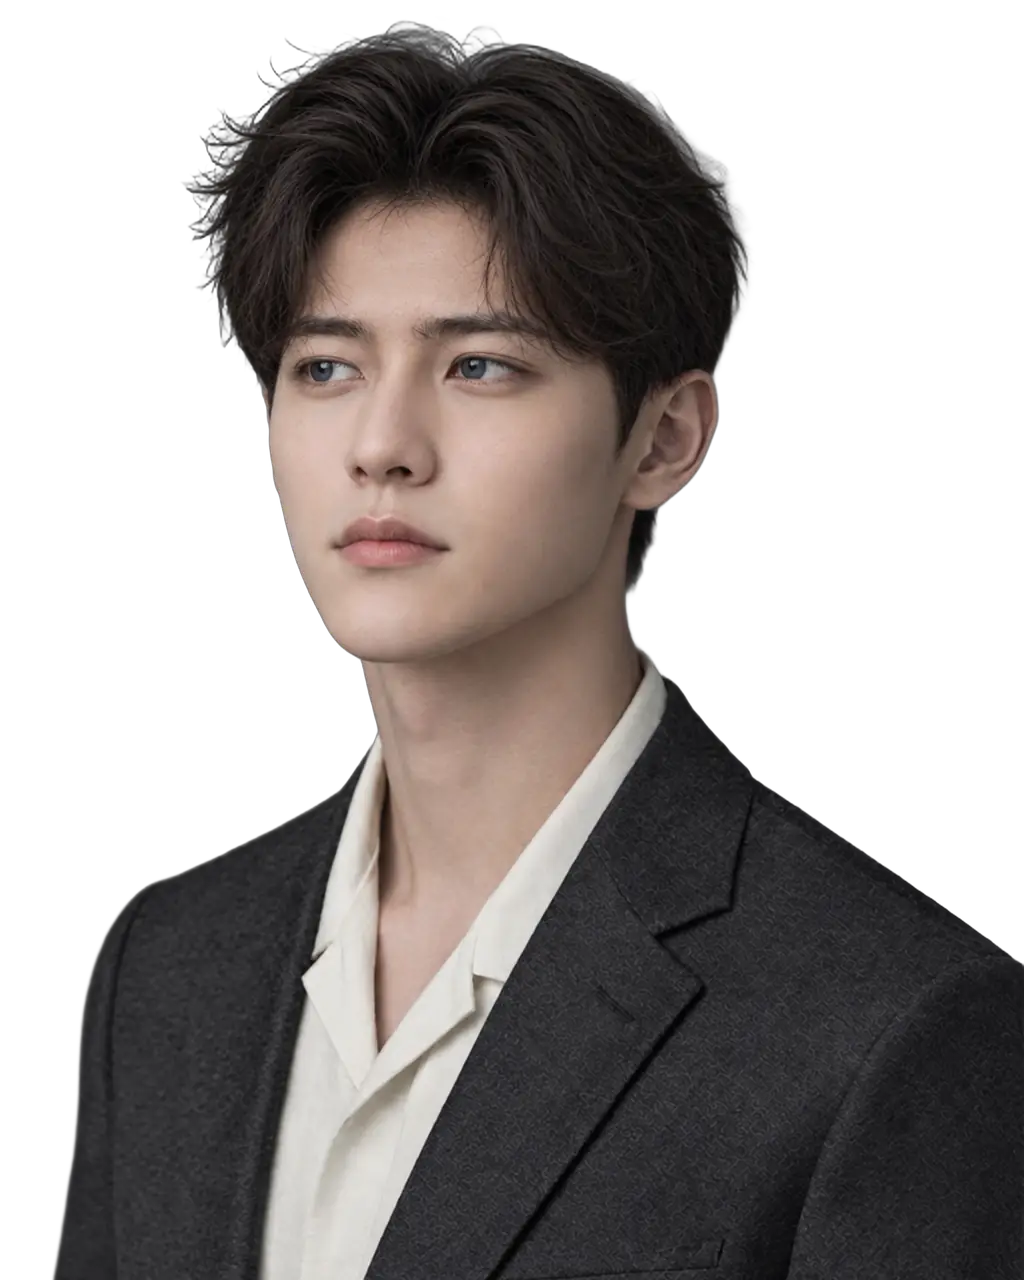
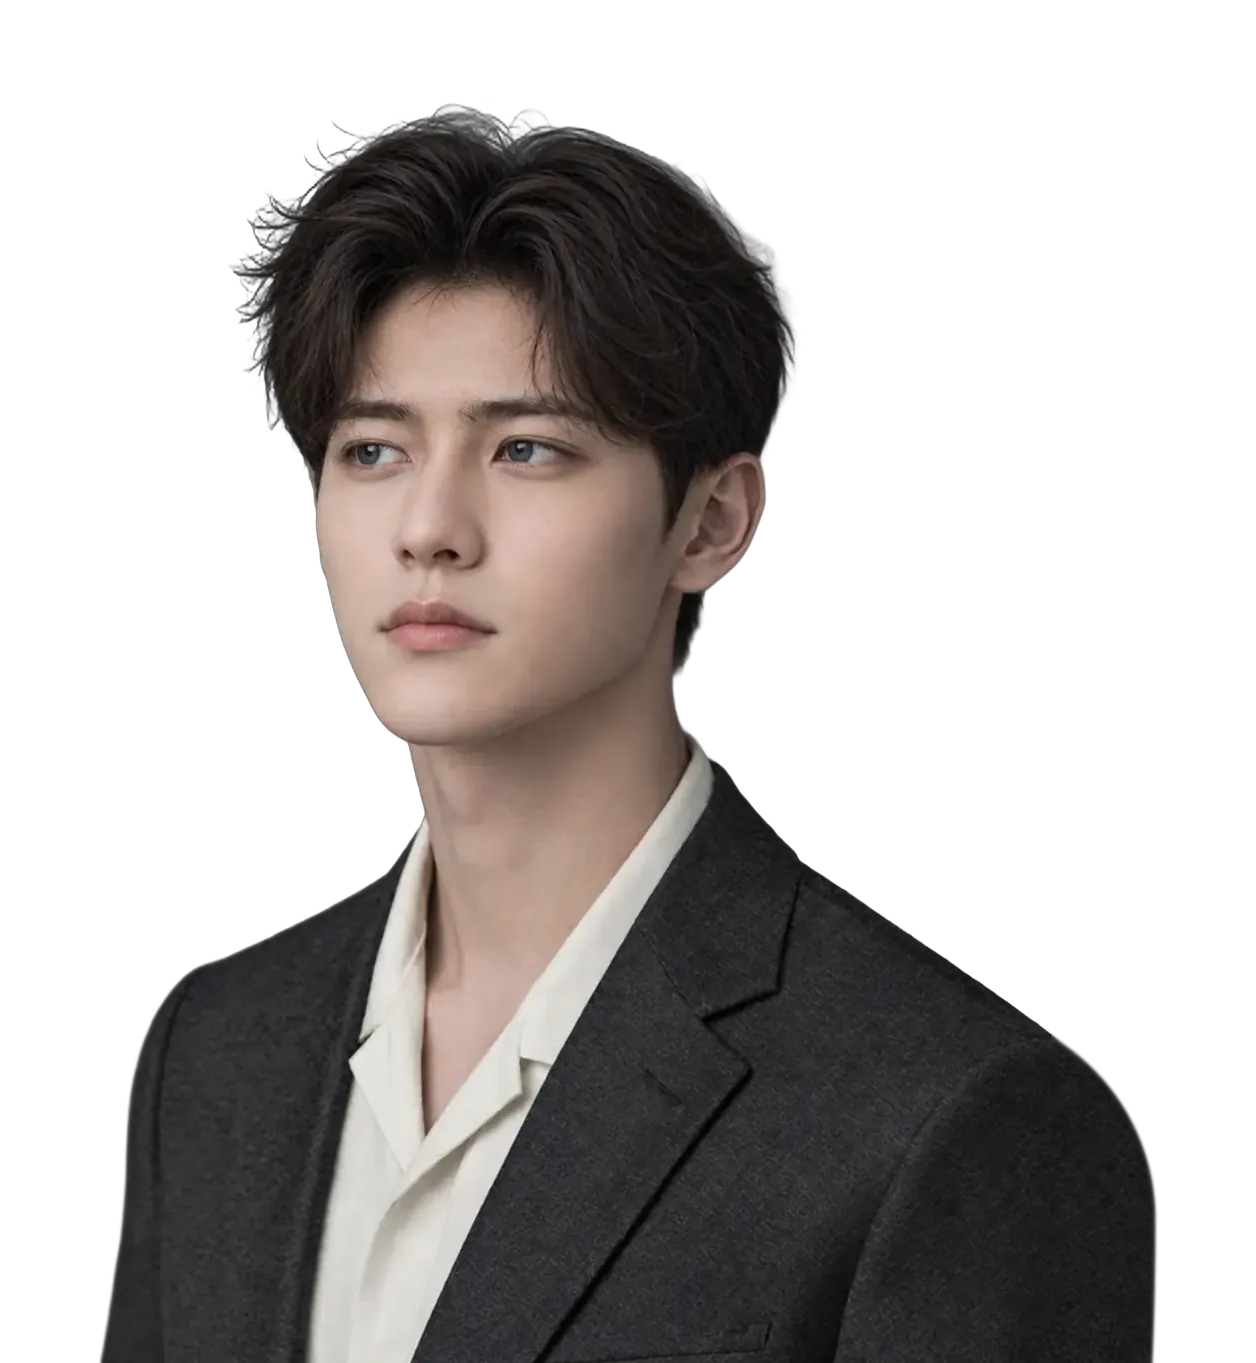
盧卡斯大立繪：右肩補完、半身全露，放在台詞欄右邊看著台詞（v95） (#344)
* 盧卡斯大立繪換成補完右肩的 v95 版：半身全露、不再往下藏

場景光影 #3 把右肩補到衣服邊（art/lucas-stage-v95），畫布 1256×1363、四周留白 8%。
大立繪框貼畫面底，人物右緣對齊台詞欄左邊 8px；srcset 改成立繪自己的 628／1256，
不再混頭像的 512（畫布不同會對不齊）。頭像 512／144 和 face_cx 不變。
e2e：三邊全透明、不出畫面左緣、不壓台詞欄、框底等於畫面底；舊版 5/5 紅、新版 5/5 綠。

Claude-Session: https://claude.ai/code/session_01UdcgzeCJYz5mVVb7mGqkHi

* 大立繪換到台詞欄右邊：他臉朝左，看著台詞

設計師 #344 更正：盧卡斯的臉和眼睛朝畫面左邊，貼左邊會背對台詞欄、視線撞畫面邊。
改放台詞欄右邊，人物左緣離台詞欄右緣 8px，右邊離畫面邊至少 24px，不鏡像。
e2e 加量：左緣 = 台詞欄右緣 + 8、右邊 ≥ 24px、頭頂離「選單」鈕 ≥ 8px；五種寬度綠。
其他有大立繪的對話場（ep1 2/3/5/12/27/39–42、ep2 2/3/24–28）右側沒有元件重疊。

Claude-Session: https://claude.ai/code/session_01UdcgzeCJYz5mVVb7mGqkHi

---------

diff --git a/e2e/portrait-face.spec.ts b/e2e/portrait-face.spec.ts
@@ -84,15 +84,21 @@ for (const lang of ['zh', 'en'] as const)
   });
 
 /**
- * 寬螢幕左下角的盧卡斯大立繪（≥1360）：立繪包的右肩碰到圖的右緣（4:5 裁切），露出來就是一條直的切邊
- * （體驗評測 5ad27e3：原本用遮罩淡掉，看得到灰糊的一條邊）。碰到右緣的那一段要整個在畫面下緣以下。
+ * 寬螢幕左下角的盧卡斯大立繪（≥1360）。v94 以前立繪包的右肩碰到圖的右緣（4:5 裁切），露出來就是一條直的
+ * 切邊（體驗評測 5ad27e3），只好整張往下藏。v95 場景光影 #3 把右肩補完（art/lucas-stage-v95），
+ * 畫布四周留白：除了下緣，圖的上、左、右三邊都是全透明，框貼畫面底、半身全露出來。
+ * 他的臉朝畫面左邊，所以放台詞欄右邊、看著台詞（設計師 #344，UI 規格 §16）。
+ * 量：畫面上那張是立繪畫布（1256 或 628，不能是頭像的 512）；三邊沒有不透明像素；人物左緣離台詞欄右緣 8px；
+ * 右邊離畫面邊至少 24px；頭頂離「選單」鈕至少 8px；框的下緣就是畫面下緣。
  */
 for (const [w, h] of [
+  [1360, 768],
   [1366, 768],
+  [1512, 900],
   [1440, 900],
   [1920, 1080],
 ] as const)
-  test(`盧卡斯大立繪：右肩的裁切邊不在畫面裡（${w}×${h}）`, async ({ page }, info) => {
+  test(`盧卡斯大立繪：半身完整、沒有切邊（${w}×${h}）`, async ({ page }, info) => {
     test.skip(info.project.name !== 'desktop', '寬螢幕才有');
     await page.setViewportSize({ width: w, height: h });
     await open(page, 'zh');
@@ -100,7 +106,6 @@ for (const [w, h] of [
     await expect(img).toBeVisible();
     await expect(img).toHaveJSProperty('complete', true);
     const m = await img.evaluate(async (el: HTMLImageElement) => {
-      // 用原圖量：右緣那一欄從哪一列開始不透明。
       const src = new Image();
       src.src = el.currentSrc;
       await src.decode();
@@ -109,15 +114,50 @@ for (const [w, h] of [
       c.height = src.naturalHeight;
       const g = c.getContext('2d')!;
       g.drawImage(src, 0, 0);
-      const col = g.getImageData(c.width - 1, 0, 1, c.height).data;
-      let y = 0;
-      while (y < c.height && col[y * 4 + 3] <= 20) y++;
+      const { data } = g.getImageData(0, 0, c.width, c.height);
+      const a = (x: number, y: number) => data[(y * c.width + x) * 4 + 3];
+      let edge = 0;
+      for (let y = 0; y < c.height; y++) edge = Math.max(edge, a(0, y), a(c.width - 1, y));
+      for (let x = 0; x < c.width; x++) edge = Math.max(edge, a(x, 0));
+      // 人物左右最外的不透明欄（alpha > 20）。
+      let x0 = c.width;
+      let x1 = 0;
+      for (let y = 0; y < c.height; y += 2)
+        for (let x = 0; x < c.width; x++)
+          if (a(x, y) > 20) {
+            x0 = Math.min(x0, x);
+            x1 = Math.max(x1, x);
+          }
       const r = el.getBoundingClientRect();
+      const col = document.querySelector('.scene.dialogue')!.getBoundingClientRect();
+      // 人物最上面的不透明列（頭頂）。
+      let y0 = 0;
+      while (y0 < c.height && ![...Array(c.width).keys()].some((x) => a(x, y0) > 20)) y0++;
+      const menu = [...document.querySelectorAll('button')].find((b) =>
+        /^(選單|Menu)$/.test(b.textContent!.trim()),
+      );
       return {
-        edge: r.top + (y / c.height) * r.height,
+        natural: [c.width, c.height],
+        edge,
+        left: r.left + (x0 / c.width) * r.width,
+        right: r.left + ((x1 + 1) / c.width) * r.width,
+        bottom: r.bottom,
+        top: r.top + (y0 / c.height) * r.height,
         h: innerHeight,
-        mask: getComputedStyle(el.parentElement!).maskImage,
+        w: innerWidth,
+        colRight: col.right,
+        menuBottom: menu ? menu.getBoundingClientRect().bottom : 0,
       };
     });
-    expect(m.edge, JSON.stringify(m)).toBeGreaterThanOrEqual(m.h);
+    const info2 = JSON.stringify(m);
+    expect([628, 1256], info2).toContain(m.natural[0]);
+    expect(m.natural[0] / m.natural[1], info2).toBeCloseTo(1256 / 1363, 2);
+    expect(m.edge, info2).toBeLessThanOrEqual(2);
+    expect(m.bottom, info2).toBeCloseTo(m.h, 0);
+    // 他臉朝左：放在台詞欄右邊、看著台詞。人物左緣離台詞欄右緣 8px（±2）。
+    expect(Math.abs(m.left - (m.colRight + 8)), info2).toBeLessThanOrEqual(2);
+    // 外輪廓離畫面右緣至少 24px，不要幾乎碰到（UI 規格 §16）。
+    expect(m.w - m.right, info2).toBeGreaterThanOrEqual(24);
+    // 頭頂和「選單」鈕至少 8px。
+    expect(m.top - m.menuBottom, info2).toBeGreaterThanOrEqual(8);
   });

diff --git a/src/ui/styles.css b/src/ui/styles.css
@@ -927,15 +927,19 @@ details summary {
 }
 /* 對話場景旁的盧卡斯大圖：寬螢幕才有，貼在台詞欄左邊、底部對齊。 */
 .lucas-stage {
-  /* 台詞欄寬 880px；大圖取左邊剩下的空間，最多 300px。1360px 以下不出現（Portrait.tsx）。 */
-  --w: min(300px, calc(50vw - 456px));
+  /* 台詞欄寬 880px；大圖放在台詞欄右邊。--w 是舊 4:5 立繪框的寬（人物比例照 v94，最多 300px），
+     1360px 以下不出現（Portrait.tsx）。
+     v95 立繪補完右肩（場景光影 #3，art/lucas-stage-v95）：畫布 1256×1363，舊 1024 框的 (x, y) 在新畫布
+     (x + 47, y + 83)，人物上、左、右各留 8%（x 100–1154）。框貼畫面底，半身全露，下緣讓畫面底切。
+     他的臉朝畫面左邊，所以放台詞欄右邊、看著台詞（設計師 #344，UI 規格 §16）；不鏡像（西裝扣法、頭像方向）。
+     人物左緣（x 100）離台詞欄右緣 8px；人物寬 --w × 1054/1024，右邊離畫面邊至少 24px：
+     --w ≤ (50vw − 440 − 8 − 24) × 1024/1054（≈0.97），取 0.95 留抗鋸齒邊的餘裕。 */
+  --w: min(300px, calc((50vw - 472px) * 0.95));
   position: fixed;
-  /* 立繪包的右肩從圖高 74.5% 起碰到圖的右緣（4:5 裁切），原本用遮罩淡掉，看得到一條灰糊的直邊。
-     整張往下放 26%，那一段落到畫面底下：只剩半身，肩膀由畫面下緣切，不會有切邊（體驗評測 5ad27e3）。 */
-  bottom: calc(var(--w) * -1.25 * 0.26);
-  right: calc(50% + 440px + 8px);
-  width: var(--w);
-  aspect-ratio: 4 / 5;
+  bottom: 0;
+  left: calc(50% + 440px + 8px - var(--w) * 100 / 1024);
+  width: calc(var(--w) * 1256 / 1024);
+  aspect-ratio: 1256 / 1363;
   margin: 0;
   pointer-events: none;
   z-index: 0;

diff --git a/src/ui/Portrait.tsx b/src/ui/Portrait.tsx
@@ -113,25 +113,26 @@ function useWide() {
 }
 
 /**
- * 對話場景旁的盧卡斯大圖（1024，寬螢幕才有；手機不載）。他還沒開口就不出現。
+ * 對話場景旁的盧卡斯大圖（立繪 1256／628，寬螢幕才有；手機不載）。他還沒開口就不出現。
+ * 立繪和頭像的畫布不同（立繪補過右肩），srcset 只能放立繪自己的兩個尺寸，不能混頭像的 512。
  * 立繪包全組對齊過，換表情時疊起來交叉淡化，不會跳位。
  */
 export function LucasStage({ lines }: { lines: Line[] }) {
   const show = useWide();
   const said = lines.filter((l) => l.who === LUCAS && !l.mark);
   if (!show || !said.length) return null;
-  const now = lucas(said[said.length - 1].mood, 1024);
+  const now = lucas(said[said.length - 1].mood, 1256);
   const seen = [...new Set(said.map((l) => l.mood))];
   return (
     <figure className="lucas-stage" aria-hidden>
       {seen.map((mood) => {
-        const big = lucas(mood, 1024);
+        const big = lucas(mood, 1256);
         return (
           <img
             key={mood}
             src={big}
-            srcSet={`${lucas(mood, 512)} 512w, ${big} 1024w`}
-            sizes="300px"
+            srcSet={`${lucas(mood, 628)} 628w, ${big} 1256w`}
+            sizes="min(368px, calc((50vw - 472px) * 1.17))"
             alt=""
             decoding="async"
             className={big === now ? 'on' : undefined}

diff --git a/src/ui/cast.ts b/src/ui/cast.ts
@@ -3,7 +3,8 @@ import lucasYaml from './cast/lucas/lucas.yaml?raw';
 
 /**
  * 正式立繪（視覺設計師的立繪包，art-bible/cast/lead/pack）。
- * 圖檔照包裡的結構放：根目錄 1024×1280、512/、144/；每個表情用哪一張看 yaml 的 default。
+ * 圖檔照包裡的結構放：根目錄是立繪（1256×1363，v95 右肩補完的畫布）、628/ 是它的一半，
+ * 512/、144/ 是頭像（4:5，只裁臉）；每個表情用哪一張看 yaml 的 default。
  * 補新表情或換預設張，只要把圖和新的 yaml 放進來，這裡不用改。
  */
 export type Expr = 'plain' | 'tense' | 'warm' | 'hard' | 'panic' | 'silent';
@@ -46,10 +47,10 @@ const urls = import.meta.glob<string>('./cast/lucas/**/*.webp', {
   import: 'default',
 });
 
-export type Size = 144 | 512 | 1024;
+export type Size = 144 | 512 | 628 | 1256;
 
 function dir(size: Size) {
-  return size === 1024 ? './cast/lucas/' : `./cast/lucas/${size}/`;
+  return size === 1256 ? './cast/lucas/' : `./cast/lucas/${size}/`;
 }
 
 const picks = defaults(lucasYaml);

diff --git a/src/ui/cast.test.ts b/src/ui/cast.test.ts
@@ -10,10 +10,10 @@ describe('立繪包', () => {
 
   it('每個 mood 三種尺寸都有圖；變體名稱照 yaml 找檔', () => {
     for (const mood of ['平', '緊', '暖', '硬', '慌', '默', undefined])
-      for (const size of [144, 512, 1024] as const) expect(lucas(mood, size)).toBeTruthy();
+      for (const size of [144, 512, 628, 1256] as const) expect(lucas(mood, size)).toBeTruthy();
     expect(lucas('硬', 144)).toMatch(/hard/);
-    expect(lucas('緊', 1024)).toMatch(/tense-light/);
-    expect(lucas('慌', 1024)).toMatch(/panic/);
+    expect(lucas('緊', 1256)).toMatch(/tense-light/);
+    expect(lucas('慌', 1256)).toMatch(/panic/);
     expect(lucas('默', 512)).toMatch(/silent/);
   });
 
